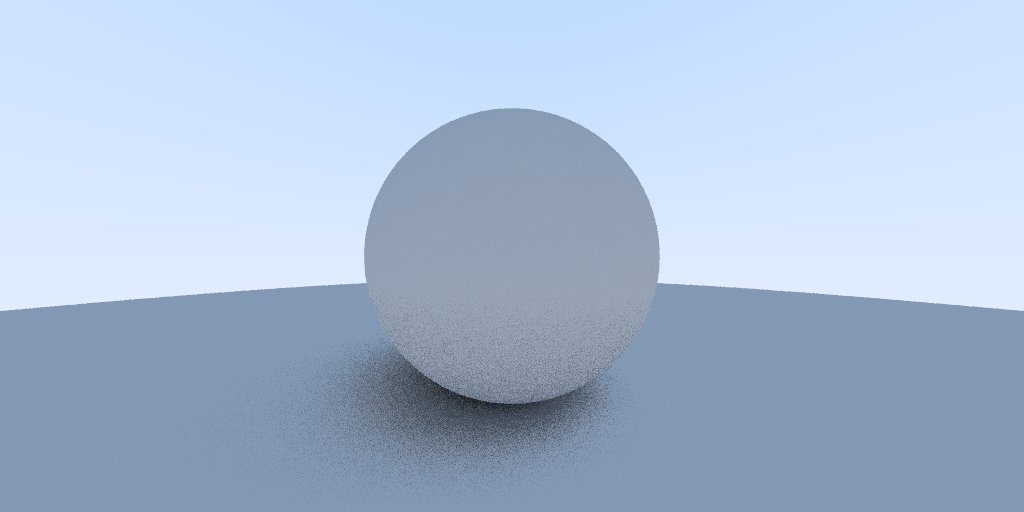
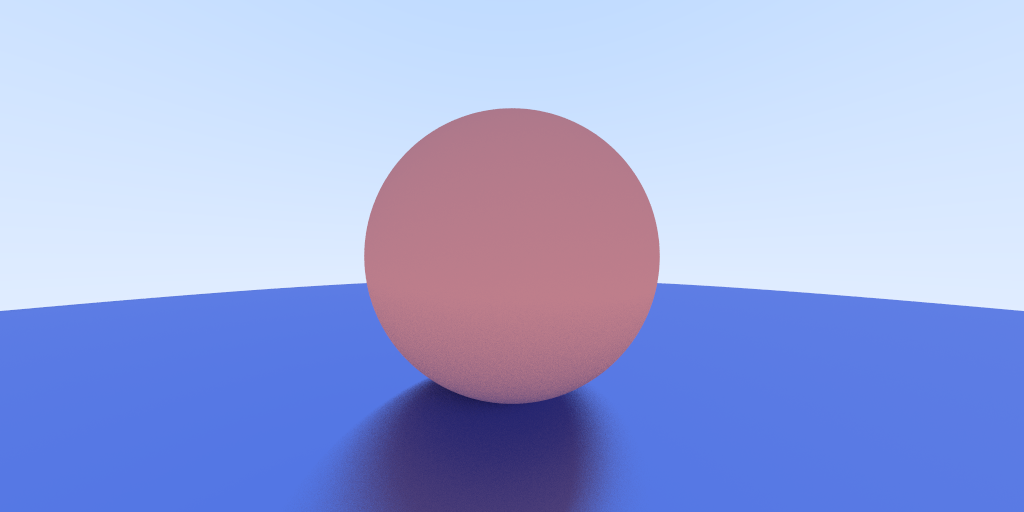
metals

diff --git a/src/main.rs b/src/main.rs
@@ -6,6 +6,7 @@ extern crate threadpool;
 
 use std::f64;
 use std::sync::mpsc::channel;
+use std::sync::Arc;
 
 use image::{ImageBuffer, Rgba, RgbaImage};
 use nalgebra::Vector3;
@@ -14,8 +15,8 @@ use threadpool::ThreadPool;
 const WIDTH: u32 = 1024;
 const HEIGHT: u32 = 512;
 
-const NUM_SAMPLES: u32 = 5;
-const T_MAX :f64 = f64::MAX;
+const NUM_SAMPLES: u32 = 100;
+const T_MAX: f64 = f64::MAX;
 
 type Vec3f = Vector3<f64>;
 
@@ -37,7 +38,7 @@ impl Camera {
     }
 }
 
-#[derive(Copy, Clone)]
+#[derive(Debug)]
 struct Ray {
     a: Vec3f,
     b: Vec3f,
@@ -61,10 +62,56 @@ trait Hittable: Sync {
     fn hit(&self, ray: &Ray, t_min: f64, t_max: f64) -> Option<Hit>;
 }
 
+trait Material: Sync + Send {
+    fn scatter(&self, ray: &Ray, hit: &Hit) -> Option<(Vec3f, Ray)>;
+}
+
 #[derive(Copy, Clone)]
+struct Diffuse {
+    albedo: Vec3f,
+}
+
+impl Material for Diffuse {
+    fn scatter(&self, ray: &Ray, hit: &Hit) -> Option<(Vec3f, Ray)> {
+        let target = hit.p + hit.normal + random_point_in_unit();
+        let scattered = Ray {
+            a: hit.p,
+            b: target - hit.p,
+        };
+        return Some((self.albedo.clone(), scattered));
+    }
+}
+
+fn reflect(a: &Vec3f, b: &Vec3f) -> Vec3f {
+    return a - 2.0 * a.dot(b) * b;
+}
+
+struct Metal {
+    albedo: Vec3f,
+    fuzz: f64,
+}
+
+impl Material for Metal {
+    fn scatter(&self, ray: &Ray, hit: &Hit) -> Option<(Vec3f, Ray)> {
+        let reflected = reflect(&ray.direction().normalize(), &hit.normal);
+        let scattered = Ray {
+            a: hit.p,
+            b: reflected + (self.fuzz * random_point_in_unit()),
+        };
+
+        if scattered.direction().dot(&hit.normal) > 0. {
+            return Some((self.albedo.clone(), scattered));
+        }
+
+        return None;
+    }
+}
+
+#[derive(Clone)]
 struct Sphere {
     center: Vec3f,
     radius: f64,
+    material: Arc<dyn Material>,
 }
 
 impl Hittable for Sphere {
@@ -85,6 +132,7 @@ impl Hittable for Sphere {
                     t: t,
                     p: p,
                     normal: ((p - self.center) / self.radius).normalize(),
+                    material: self.material.clone(),
                 });
             }
             return None;
@@ -105,58 +153,55 @@ fn color_sky(ray: &Ray) -> Vec3f {
     return c;
 }
 
-
 fn random_point_in_unit() -> Vec3f {
     return Vec3f::new_random().normalize();
 }
 
-
-fn color(ray: &Ray, world: &dyn Hittable) -> Vec3f {
+fn color(ray: &Ray, world: &impl Hittable, depth: u32) -> Vec3f {
     let result = world.hit(ray, 0.001, T_MAX);
     match result {
         None => {
             return color_sky(ray);
         }
         Some(hit) => {
-            let target = hit.p + hit.normal + random_point_in_unit();
-            let r = Ray {
-                a: hit.p,
-                b: target - hit.p
-            };
-            return 0.5 * color(&r, world);
+            if depth < 50 {
+                let result = hit.material.scatter(ray, &hit);
+                if result.is_some() {
+                    let (attenuation, scattered) = result.unwrap();
+                    return color(&scattered, world, depth + 1).component_mul(&attenuation);
+                }
+            }
+            return Vec3f::new(0., 0., 0.);
         }
     }
 }
 
-fn sample(camera: &Camera, x: u32, y: u32, world: &dyn Hittable) -> Vec3f {
+fn sample(camera: &Camera, x: u32, y: u32, world: &impl Hittable) -> Vec3f {
     let mut c = Vec3f::new(0., 0., 0.);
     for _ in 0..NUM_SAMPLES {
         let u = ((x as f64) + rand::random::<f64>()) / WIDTH as f64;
         let v = ((y as f64) + rand::random::<f64>()) / HEIGHT as f64;
         let ray = camera.get_ray(u, v);
-        c += color(&ray, world);
+        c += color(&ray, world, 0);
     }
     c /= NUM_SAMPLES as f64;
     return c;
 }
 
-
 struct Hit {
     t: f64,
     p: Vec3f,
     normal: Vec3f,
+    material: Arc<dyn Material>,
 }
-
 
 #[derive(Clone)]
 struct World<T: Hittable> {
     objects: Vec<T>,
 }
 
-
 impl<T: Hittable> Hittable for World<T> {
     fn hit(&self, ray: &Ray, t_min: f64, t_max: f64) -> Option<Hit> {
-
         let mut rv: Option<Hit> = None;
         let mut closest = t_max;
         for hittable in self.objects.iter() {
@@ -165,8 +210,8 @@ impl<T: Hittable> Hittable for World<T> {
                 Some(hit) => {
                     closest = hit.t;
                     rv = Some(hit);
-                },
-                None => {},
+                }
+                None => {}
             }
         }
         return rv;
@@ -182,15 +227,22 @@ fn main() {
         vertical: Vec3f::new(0.0, 2.0, 0.0),
         origin: Vec3f::new(0.0, 0.0, 0.0),
     };
+
     let sphere = Sphere {
         center: Vec3f::new(0., 0., -1.),
         radius: 0.5,
+        material: Arc::new(Diffuse {
+            albedo: Vec3f::new(0.8, 0.3, 0.3),
+        }),
     };
     let ground = Sphere {
         center: Vec3f::new(0., -100.5, -1.),
         radius: 100.,
+        material: Arc::new(Metal {
+            albedo: Vec3f::new(0.2, 0.3, 0.8),
+            fuzz: 0.5,
+        }),
     };
-
     let world = World {
         objects: vec![sphere, ground],
     };
